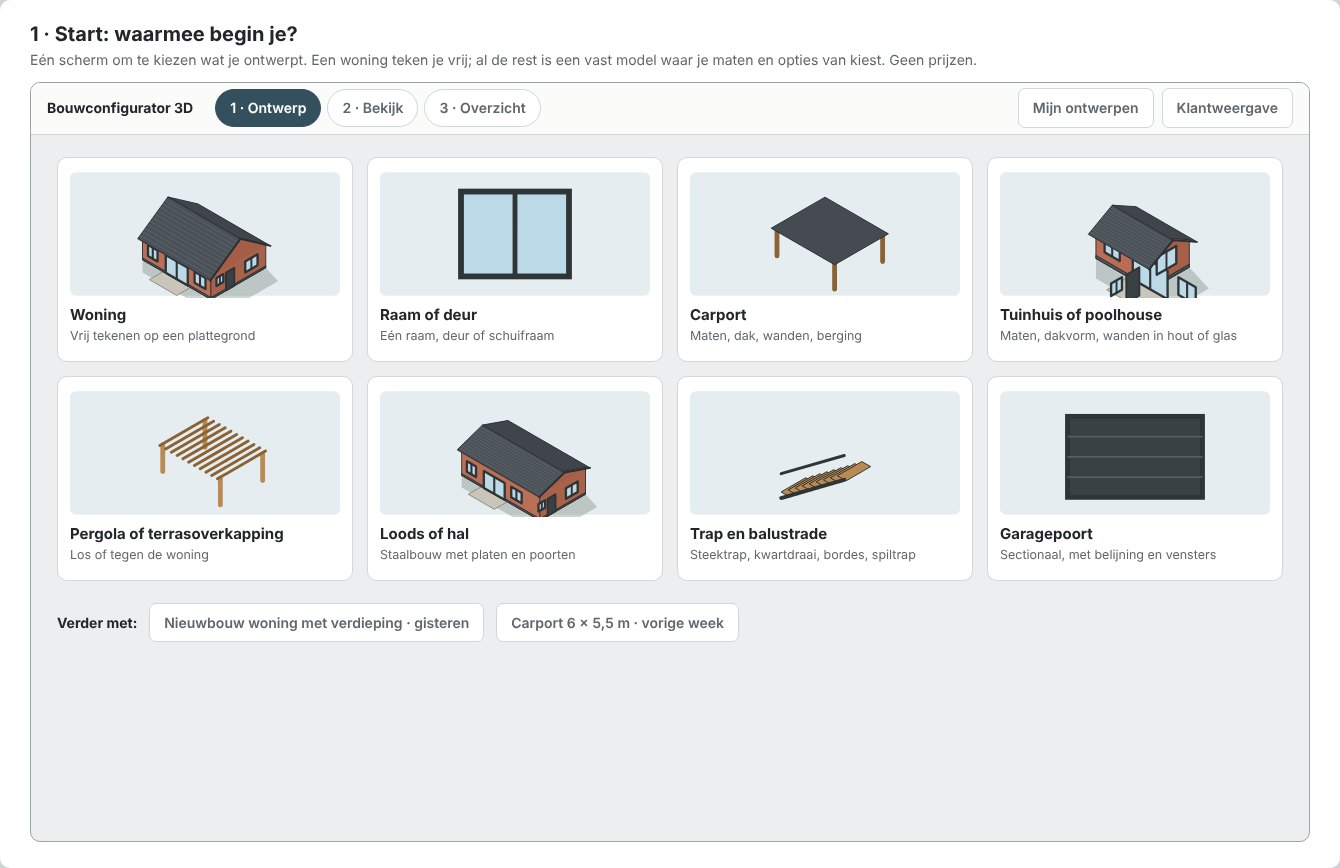
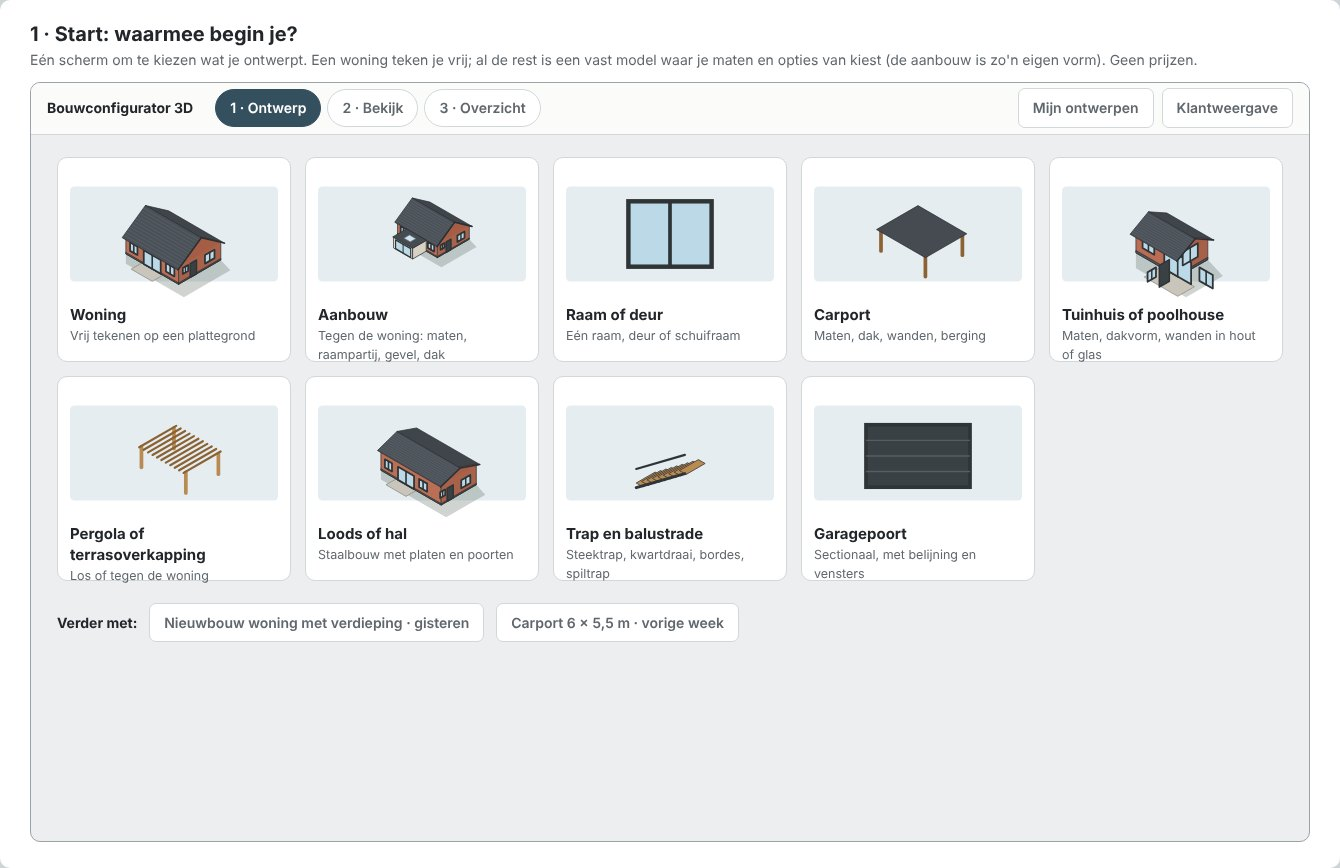
Schermschetsen en analyse: de aanbouw als eigen vast model op het startscherm
Claude-Session: https://claude.ai/code/session_01PczewFp9M8BS44vqTSpk6u

Changed region(s): [[0.0306, 0.1866, 0.9485, 0.6843], [0.6731, 0.0622, 0.8873, 0.0933]]

diff --git a/docs/proeven/schermschetsen-bouw.html b/docs/proeven/schermschetsen-bouw.html
@@ -47,7 +47,7 @@ body { margin: 0; background: #cfd4d7; font: 14px/1.4 system-ui, -apple-system, 
 .wissel span.aan { background: var(--a); color: #fff; }
 .pil { padding: 8px 12px; border-radius: 8px; background: rgba(255,255,255,.93); border: 1px solid var(--l); font-weight: 600; white-space: nowrap; }
 .noot { position: absolute; left: 12px; bottom: 10px; background: rgba(255,255,255,.93); border: 1px solid var(--l); border-radius: 6px; padding: 6px 10px; font-size: 12px; color: var(--z); z-index: 2; max-width: 70%; }
-.tegels { display: grid; grid-template-columns: repeat(4, 1fr); gap: 14px; padding: 22px 26px; }
+.tegels { display: grid; grid-template-columns: repeat(5, 1fr); gap: 14px; padding: 22px 26px; }
 .tegel { background: #fff; border: 1px solid var(--l); border-radius: 10px; padding: 12px; height: 205px; position: relative; }
 .tegel svg { width: 100%; height: 128px; display: block; }
 .tegel b { display: block; margin-top: 6px; font-size: 15px; }
@@ -69,7 +69,7 @@ body { margin: 0; background: #cfd4d7; font: 14px/1.4 system-ui, -apple-system, 
 
 <section class="blad" id="b1">
   <h2>1 · Start: waarmee begin je?</h2>
-  <p class="uit">Eén scherm om te kiezen wat je ontwerpt. Een woning teken je vrij; al de rest is een vast model waar je maten en opties van kiest. Geen prijzen.</p>
+  <p class="uit">Eén scherm om te kiezen wat je ontwerpt. Een woning teken je vrij; al de rest is een vast model waar je maten en opties van kiest (de aanbouw is zo'n eigen vorm). Geen prijzen.</p>
   <div class="scherm">
     <div class="kop"><span class="merk">Bouwconfigurator 3D</span><div class="stappen"><span class="stap aan">1 · Ontwerp</span><span class="stap">2 · Bekijk</span><span class="stap">3 · Overzicht</span></div><div class="rechts"><span class="knop">Mijn ontwerpen</span><span class="knop">Klantweergave</span></div></div>
     <div class="tegels" id="tegels"></div>
@@ -438,13 +438,20 @@ function doorsnede(svg) {
 // ---- De bladen vullen ----
 const HUIS = { W: 100, D: 80, H: 30, R: 28 };
 { // 1: tegels
-  const soorten = [['Woning', 'Vrij tekenen op een plattegrond', 'huis'], ['Raam of deur', 'Eén raam, deur of schuifraam', 'raam'], ['Carport', 'Maten, dak, wanden, berging', 'carport'], ['Tuinhuis of poolhouse', 'Maten, dakvorm, wanden in hout of glas', 'tuinhuis'],
+  const soorten = [['Woning', 'Vrij tekenen op een plattegrond', 'huis'], ['Aanbouw', 'Tegen de woning: maten, raampartij, gevel, dak', 'aanbouw'], ['Raam of deur', 'Eén raam, deur of schuifraam', 'raam'], ['Carport', 'Maten, dak, wanden, berging', 'carport'], ['Tuinhuis of poolhouse', 'Maten, dakvorm, wanden in hout of glas', 'tuinhuis'],
     ['Pergola of terrasoverkapping', 'Los of tegen de woning', 'pergola'], ['Loods of hal', 'Staalbouw met platen en poorten', 'loods'], ['Trap en balustrade', 'Steektrap, kwartdraai, bordes, spiltrap', 'trap'], ['Garagepoort', 'Sectionaal, met belijning en vensters', 'poort']];
   for (const [naam, uitleg, soort] of soorten) {
     const t = document.createElement('div'); t.className = 'tegel'; $('tegels').append(t);
     const svg = S('svg', { viewBox: '0 0 280 128' }, t); S('rect', { x: 0, y: 0, width: 280, height: 128, fill: '#e6edf1', rx: 6 }, svg);
     const P = iso(140, 62, 1.25);
     if (soort === 'huis') huisAf(svg, iso(132, 58, .82), { ...HUIS, dak: 'zadel' });
+    else if (soort === 'aanbouw') {
+      const Q = iso(150, 40, .62), D = HUIS.D; huisAf(svg, Q, { ...HUIS, dak: 'zadel' });
+      V(svg, Q, [[24, D + 34, 0], [72, D + 34, 0], [72, D + 34, 24], [24, D + 34, 24]], '#ece7dc'); V(svg, Q, [[72, D, 0], [72, D + 34, 0], [72, D + 34, 24], [72, D, 24]], '#d8d2c5');
+      V(svg, Q, [[29, D + 34, 1], [67, D + 34, 1], [67, D + 34, 20], [29, D + 34, 20]], '#bcd9e8', { s: '#2f3437', w: 1.6 }); L(svg, Q, [48, D + 34, 1], [48, D + 34, 20], '#2f3437', 1.4);
+      V(svg, Q, [[23, D, 24], [73, D, 24], [73, D + 35, 24], [23, D + 35, 24]], '#454b50');
+      V(svg, Q, [[40, D + 10, 24.2], [56, D + 10, 24.2], [56, D + 24, 24.2], [40, D + 24, 24.2]], '#cfe6f2', { s: '#6c7479' });
+    }
     else if (soort === 'carport') { const Q = iso(140, 58, 1.15); for (const [x, y] of [[0, 0], [60, 0], [0, 50], [60, 50]]) L(svg, Q, [x, y, 0], [x, y, 24], '#8a6233', 5); V(svg, Q, [[-3, -3, 25], [63, -3, 25], [63, 53, 25], [-3, 53, 25]], '#454b50'); }
     else if (soort === 'tuinhuis') huisAf(svg, iso(140, 66, 1.3), { W: 50, D: 36, H: 22, R: 10, dak: 'zadel' });
     else if (soort === 'pergola') { const Q = iso(140, 58, 1.15); for (const [x, y] of [[0, 0], [60, 0], [0, 44], [60, 44]]) L(svg, Q, [x, y, 0], [x, y, 24], '#b98a52', 5); for (let x = 0; x <= 60; x += 6) L(svg, Q, [x, -3, 25], [x, 47, 25], '#8a6233', 3); }

diff --git a/docs/analyse-bouw-3d-voor-klanten.md b/docs/analyse-bouw-3d-voor-klanten.md
@@ -124,6 +124,16 @@ Vaste modellen met maten en opties: **carport, tuinhuis, poolhouse, pergola, ter
 
 Werk: de bouwdelen eerst (M), daarna ±S per model.
 
+### 4.3b De aanbouw als eigen vorm [beslist, 15/11: "aanbouw is specifieke vorm, mag ook toegevoegd worden"]
+
+De aanbouw is een vast model dat **al bestaat** [code]: tegen de woning, met breedte, diepte en hoogte, een raampartij
+(schuifraam 2-, 3- of 4-delig, hef-schuif, vouwdeur, deur met zijpanelen), 3 gevels voor de zijmuren, 4 bekledingen boven de
+raampartij en een plat dak met EPDM, lichtstraat of lichtkoepel. Hij krijgt een eigen tegel op het startscherm (schets 1).
+
+Wat erbij moet: hij wordt opgebouwd uit dezelfde bouwdelen als de rest (zodat hij ook een constructieweergave en een
+doorsnede krijgt), hij neemt de gevel- en dakcatalogus van de woning over in plaats van zijn eigen korte lijstjes, en je
+kunt hem **tegen een getekende woning** zetten in plaats van alleen los. Werk: M.
+
 ### 4.4 Houtskelet, dakconstructie en de constructieweergave [beslist: eerst]
 
 Dit is de **tweede weergave** van de woning: één knop wisselt tussen *Afgewerkt* en *Constructie*.
@@ -230,7 +240,7 @@ niets hiervan is gebouwd. Bron: `docs/proeven/schermschetsen-bouw.html` (één p
 
 | # | Schets | Wat ze toont |
 |---|---|---|
-| 1 | ![Start](afbeeldingen/schermschetsen/blad-01.jpg) | Kiezen waarmee je begint: woning, raam, carport, tuinhuis, pergola, loods, trap, garagepoort |
+| 1 | ![Start](afbeeldingen/schermschetsen/blad-01.jpg) | Kiezen waarmee je begint: woning, aanbouw, raam, carport, tuinhuis, pergola, loods, trap, garagepoort |
 | 2 | ![Ontwerp woning](afbeeldingen/schermschetsen/blad-02.jpg) | Links de keuzes per tabblad, midden het plan, rechts altijd de 3D |
 | 3 | ![Vast model](afbeeldingen/schermschetsen/blad-03.jpg) | Een vast model (carport): maten en opties, de 3D volgt |
 | 4 | ![Afgewerkt](afbeeldingen/schermschetsen/blad-04.jpg) | De 3D groot en mooier: lucht, gras, schaduw, zon op dag en uur, maten, zonwering |
@@ -278,7 +288,7 @@ Na de schetsen kwamen er nog wensen bij (15/11): **zonneschermen, ventilatie, st
 | 3 | **Bouwdelen en opbouw als gegevens** (hoofdstuk 3): de basis voor rondes 4, 6, 7 en 8 | M |
 | 4 | **Constructieweergave** van de woning (jouw eerste keuze): houtskelet, balklaag, dakconstructie, vloeropbouw, de knop *Afgewerkt / Constructie* | L |
 | 5 | **Ramen:** raster van vakken, grote glaspartijen, bijzondere vormen, dakraam en garagepoort, kleurwaaier | L |
-| 6 | **Bijgebouwen in hout:** carport eerst, dan tuinhuis, poolhouse, pergola | M–L |
+| 6 | **Aanbouw en bijgebouwen in hout:** de bestaande aanbouw op bouwdelen en tegen de woning; carport, dan tuinhuis, poolhouse, pergola | M–L |
 | 7 | **Staalbouw:** loods of hal | M–L |
 | 8 | **Staal in en rond de woning:** trap, balustrade, luifel | M |
 | 9 | **Meegeven:** kijkbestand, blad zonder prijzen, maten in de 3D, varianten naast elkaar | M |
